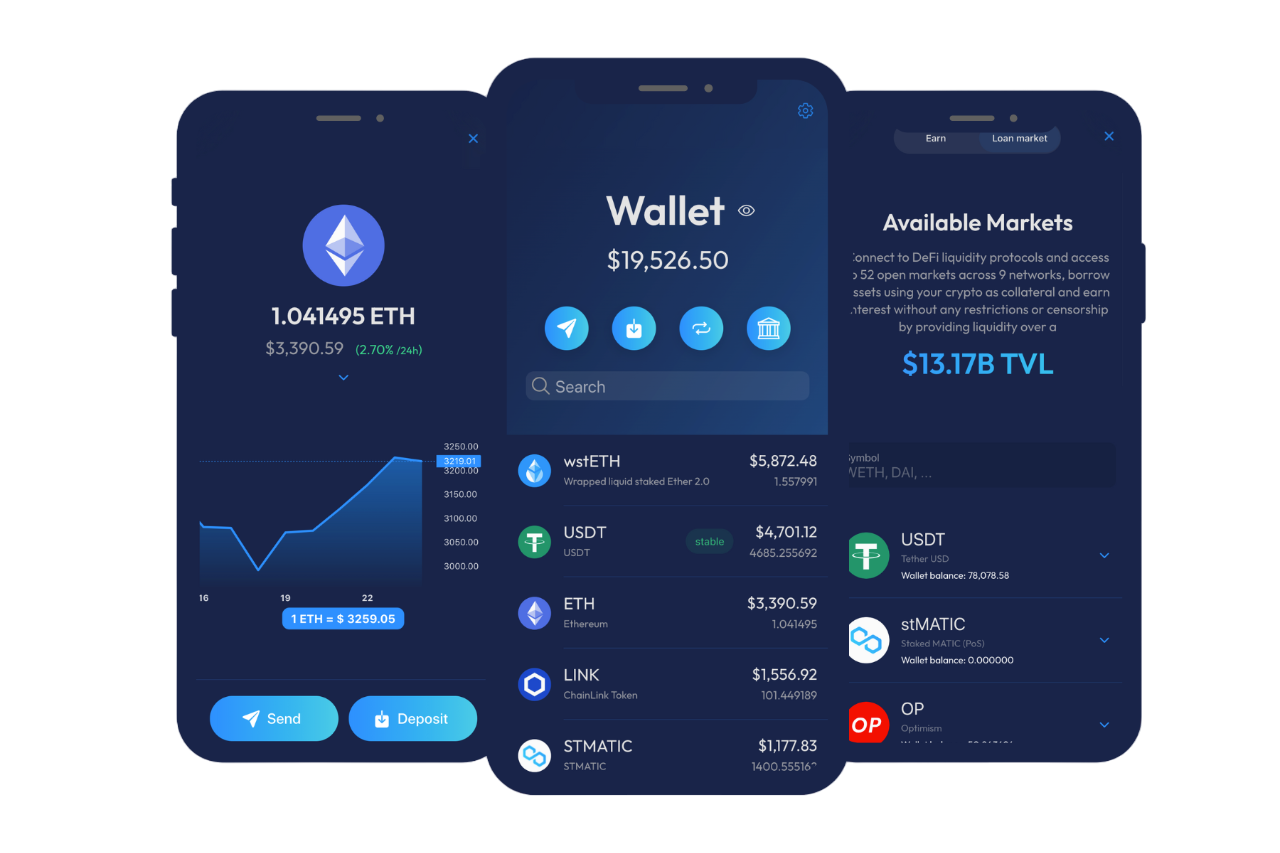
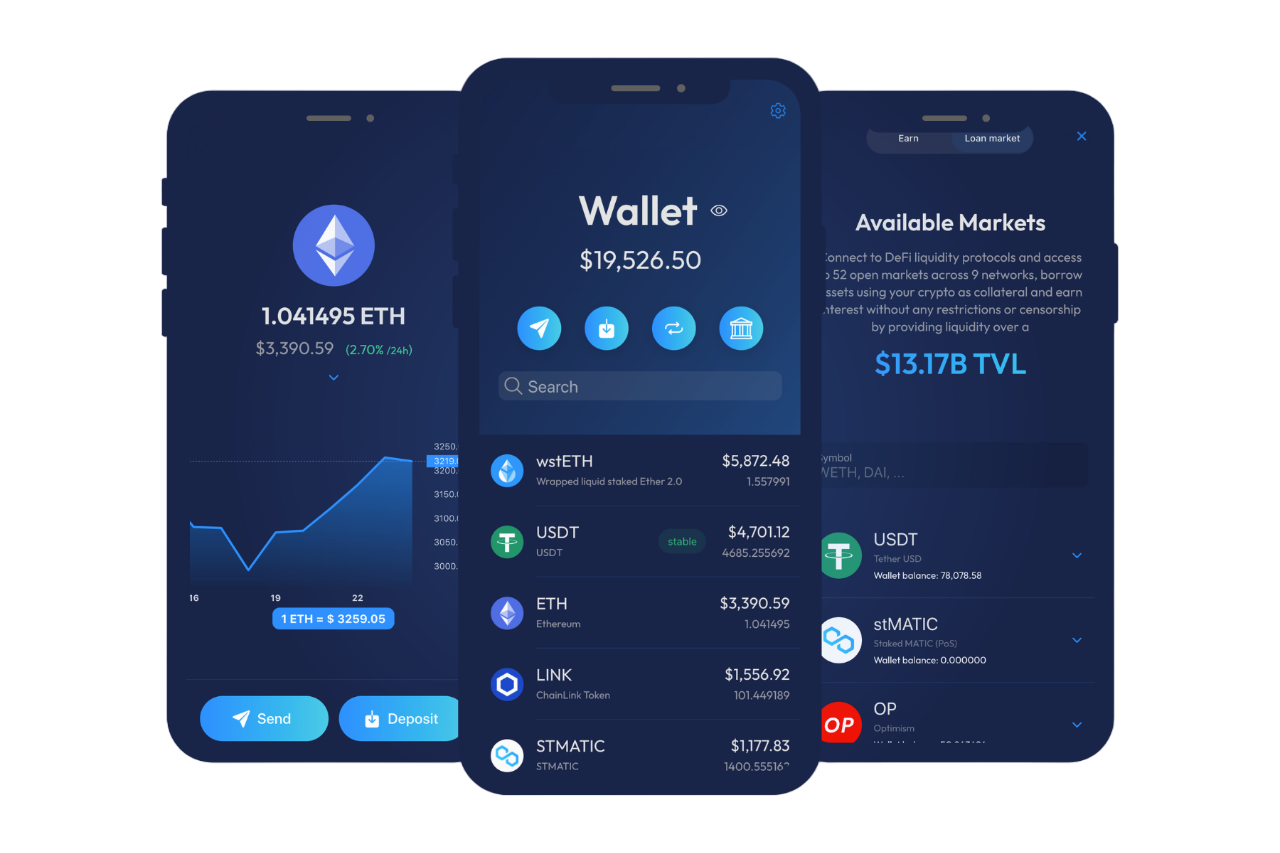
feat: img typo fonts

diff --git a/src/assets/styles/tailwind.css b/src/assets/styles/tailwind.css
@@ -38,17 +38,6 @@
   }
 }
 
-@import url('https://fonts.googleapis.com/css2?family=Outfit:wght@100..900&display=swap');
-
-@layer base {
-  @font-face  {
-    font-family: "Outfit", sans-serif;
-    font-optical-sizing: auto;
-    font-style: normal;
-    src: url(/fonts/Roboto.woff2) format('woff2');
-  }
-}
-
 #header.scroll > div:first-child {
   @apply bg-page md:bg-white/90 md:backdrop-blur-md;
   box-shadow: 0 0.375rem 1.5rem 0 rgb(140 152 164 / 13%);
